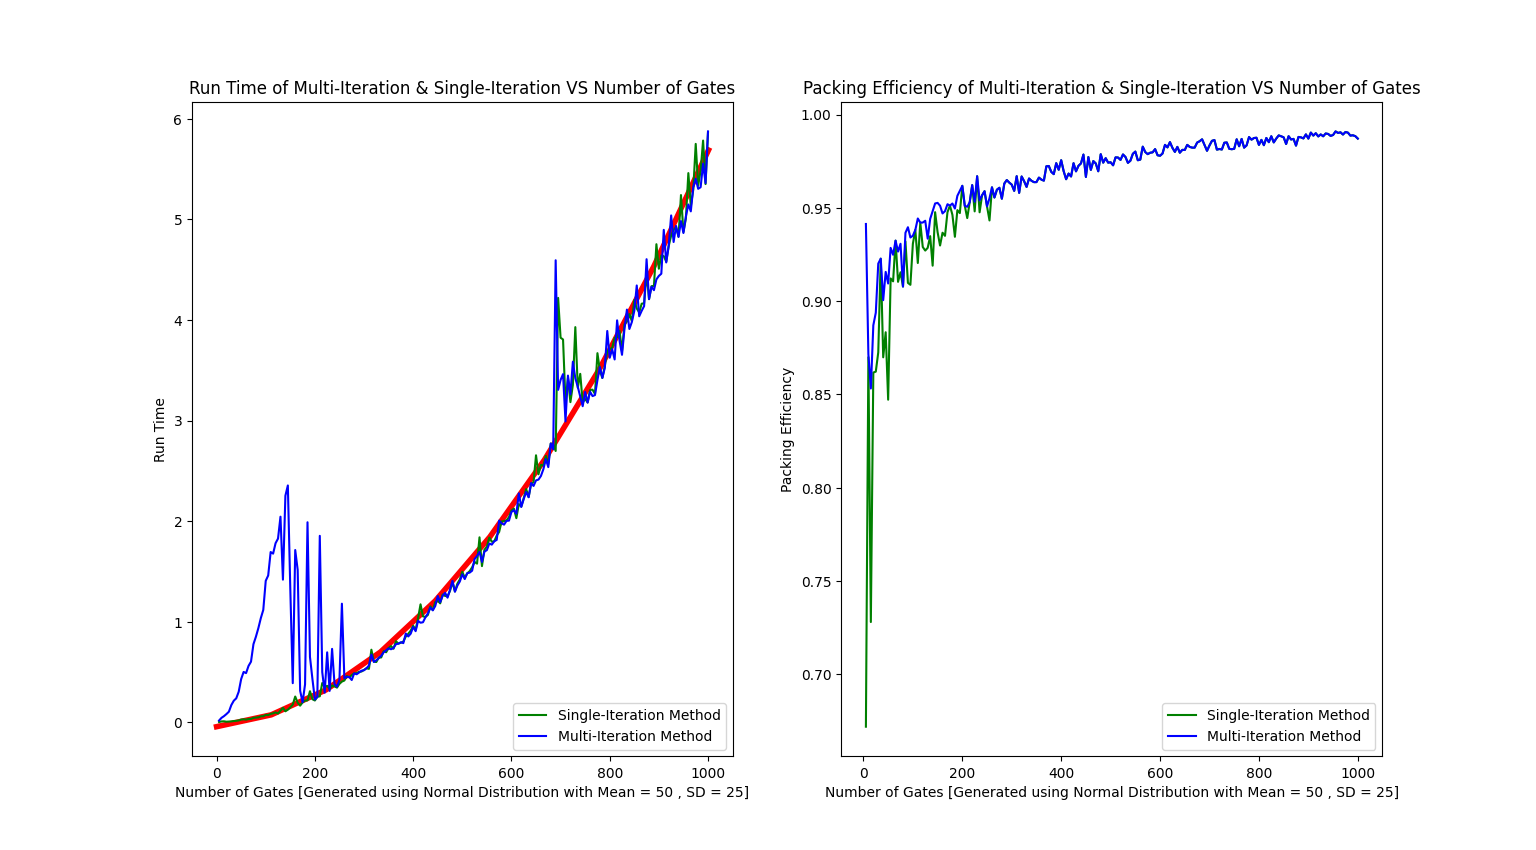
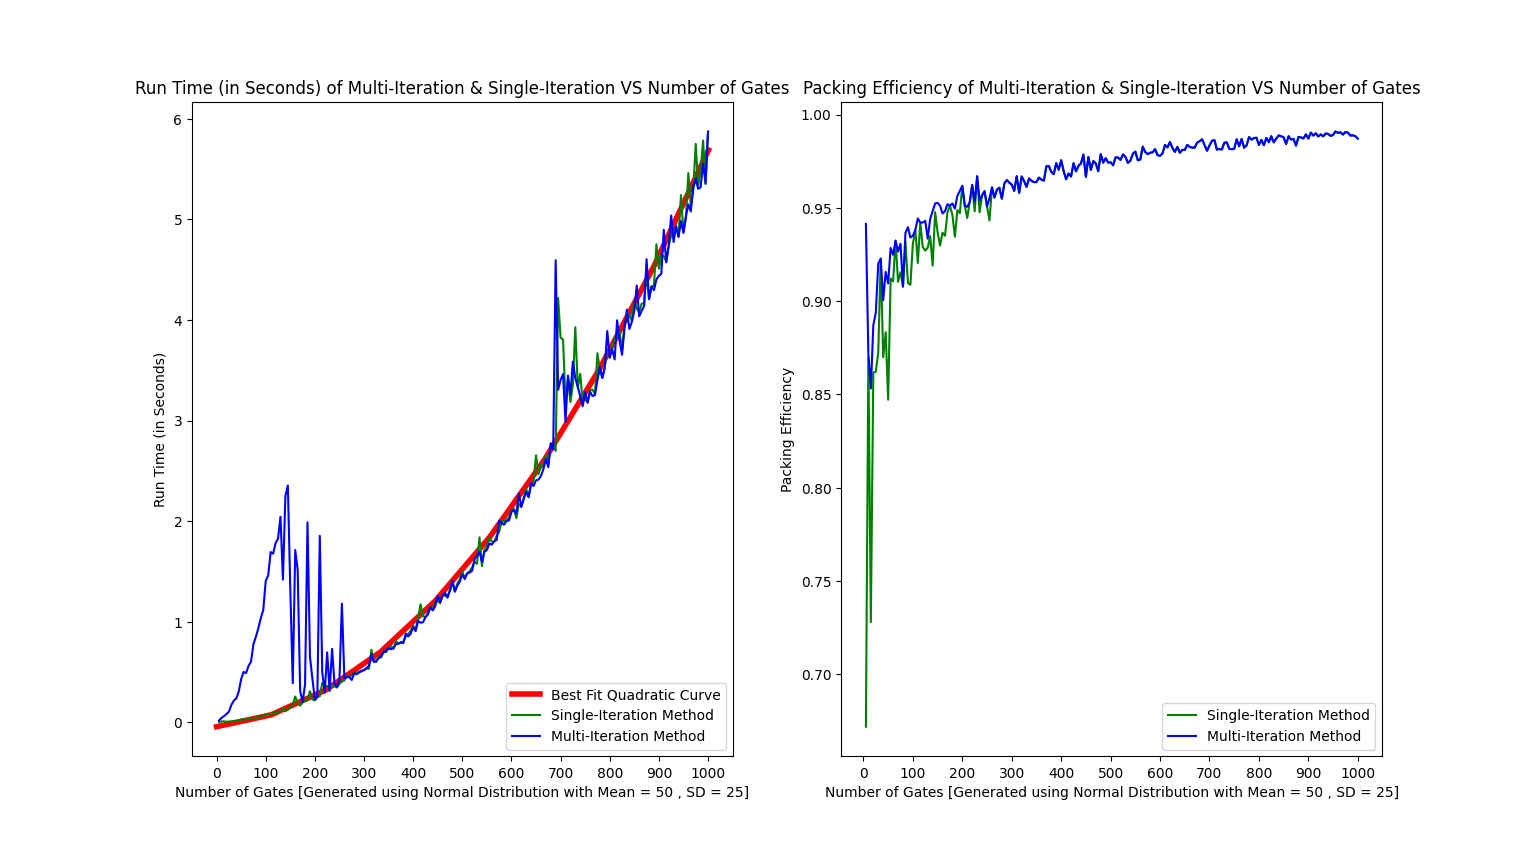
Corrected Test Case Analysis

diff --git a/SW_Assignment_1_Files/Code/txt_analysis.py b/SW_Assignment_1_Files/Code/txt_analysis.py
@@ -72,9 +72,9 @@ def bhola():
     
     
     
-    # # plt.subplot(1,2,1)
-    # plt.xticks(np.arange(0, 10001, 200))
-    # plt.plot(polyline,model(polyline),color="r",linewidth=4.0)
+    # plt.subplot(1,2,1)
+    # plt.xticks(np.arange(0, 10001, 100))
+    # plt.plot(polyline,model(polyline),color="r",linewidth=4.0,label = "Best Fit Quadratic Curve")
     # plt.plot(xdata_sp,ydata_t_sp,color = 'g',label = "Single-Iteration Method")
     # plt.plot(xdata_mp,ydata_t_mp,color = 'b',label = "Multi-Iteration Method")
     # plt.xlabel("Number of Gates [Generated using Normal Distribution with Mean = 50 , SD = 25]")
@@ -85,14 +85,14 @@ def bhola():
     
     
     # plt.subplot(1,2,2)
-    # plt.xticks(np.arange(0, 10001, 200))
-    # plt.plot(xdata_sp,ydata_peff_sp,color = 'g',label = "Single-Iteration Method")
-    # plt.plot(xdata_mp,ydata_peff_mp,color = 'b',label = "Multi-Iteration Method")
-    # plt.xlabel("Number of Gates [Generated using Normal Distribution with Mean = 50 , SD = 25]")
-    # plt.ylabel("Packing Efficiency")
-    # plt.legend(loc="lower right")
-    # plt.title("Packing Efficiency of Multi-Iteration & Single-Iteration VS Number of Gates")
-    # plt.show()
+    plt.xticks(np.arange(0, 10001, 100))
+    plt.plot(xdata_sp,ydata_peff_sp,color = 'g',label = "Single-Iteration Method")
+    plt.plot(xdata_mp,ydata_peff_mp,color = 'b',label = "Multi-Iteration Method")
+    plt.xlabel("Number of Gates [Generated using Normal Distribution with Mean = 50 , SD = 25]")
+    plt.ylabel("Packing Efficiency")
+    plt.legend(loc="lower right")
+    plt.title("Packing Efficiency of Multi-Iteration & Single-Iteration VS Number of Gates")
+    plt.show()
 
 def chola():
     tot_data = dict()

diff --git a/SW_Assignment_1_Files/Code/tempCodeRunnerFile.py b/SW_Assignment_1_Files/Code/tempCodeRunnerFile.py
@@ -1,3 +1,1 @@
-with open("input.txt","w") as file:
-    #     for i in range(1,15):
-    #         file.write(f"g{i} {i} {i}\n") 
+)
